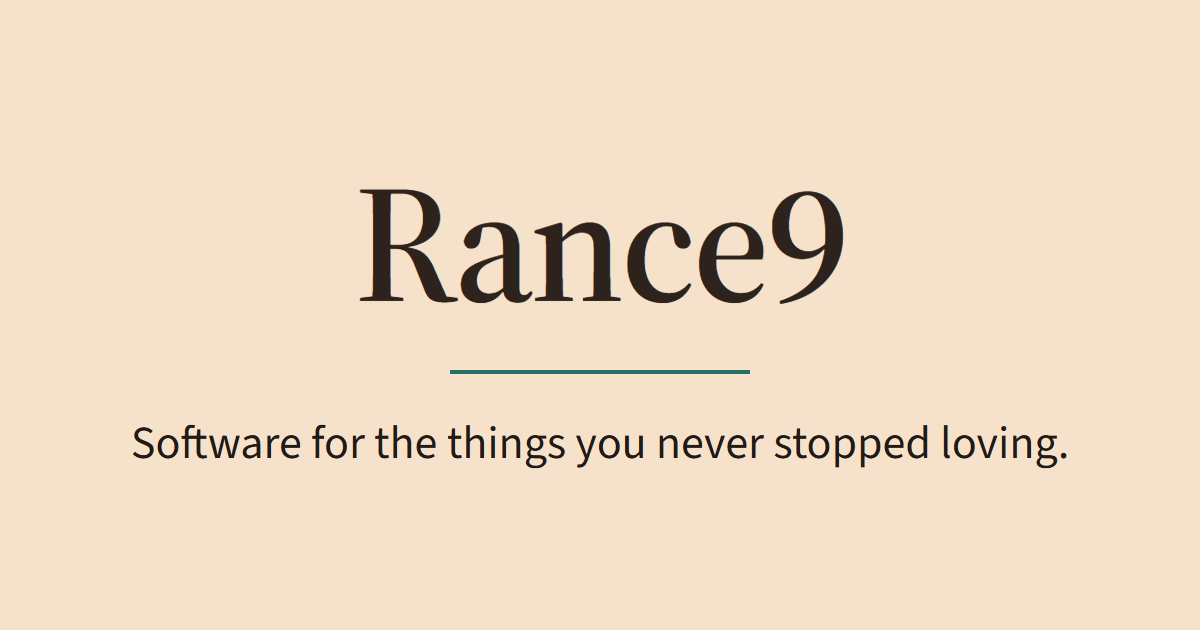
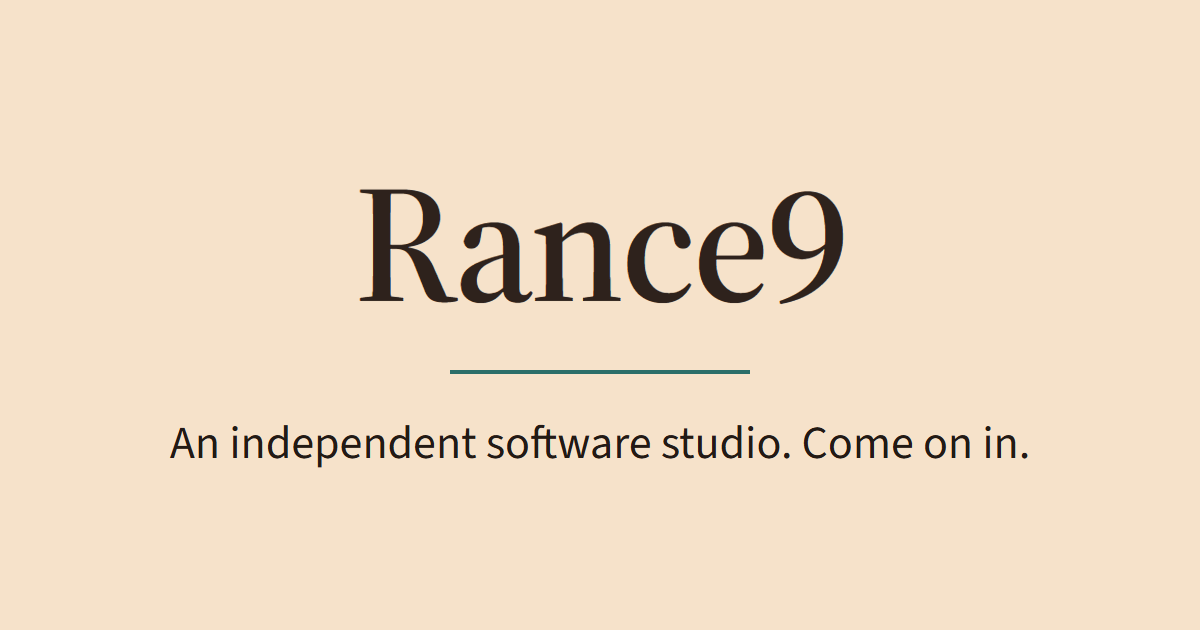
New welcome wording: Come on in.
- Headline "Come on in." with "Rance9 is my independent software studio.
  Make yourself at home." beneath it.
- New About text and picture caption ("Psst… try clicking around the
  room.").
- Search and social descriptions, image alt text and the social preview
  image updated to match.

Changed region(s): [[0.0925, 0.6635, 0.8942, 0.754]]

diff --git a/index.html b/index.html
@@ -5,25 +5,25 @@
   <meta name="viewport" content="width=device-width, initial-scale=1">
   <meta http-equiv="Content-Security-Policy" content="default-src 'none'; img-src 'self'; style-src 'self'; font-src 'self'; script-src 'self'; base-uri 'none'; form-action 'none'; object-src 'none'">
   <title>Rance9</title>
-  <meta name="description" content="Software for the things you never stopped loving.">
+  <meta name="description" content="Rance9 is my independent software studio. Make yourself at home.">
   <link rel="canonical" href="https://rance9.com/">
   <meta name="color-scheme" content="light">
   <meta name="theme-color" content="#F7E2CA">
   <meta property="og:type" content="website">
   <meta property="og:site_name" content="Rance9">
   <meta property="og:title" content="Rance9">
-  <meta property="og:description" content="Software for the things you never stopped loving.">
+  <meta property="og:description" content="Rance9 is my independent software studio. Make yourself at home.">
   <meta property="og:url" content="https://rance9.com/">
   <meta property="og:image" content="https://rance9.com/assets/images/social-preview.png">
   <meta property="og:image:type" content="image/png">
   <meta property="og:image:width" content="1200">
   <meta property="og:image:height" content="630">
-  <meta property="og:image:alt" content="The Rance9 name in a dark serif on cream paper, above a thin teal rule and the line: Software for the things you never stopped loving.">
+  <meta property="og:image:alt" content="The Rance9 name in a dark serif on cream paper, above a thin teal rule and the line: An independent software studio. Come on in.">
   <meta name="twitter:card" content="summary_large_image">
   <meta name="twitter:title" content="Rance9">
-  <meta name="twitter:description" content="Software for the things you never stopped loving.">
+  <meta name="twitter:description" content="Rance9 is my independent software studio. Make yourself at home.">
   <meta name="twitter:image" content="https://rance9.com/assets/images/social-preview.png">
-  <meta name="twitter:image:alt" content="The Rance9 name in a dark serif on cream paper, above a thin teal rule and the line: Software for the things you never stopped loving.">
+  <meta name="twitter:image:alt" content="The Rance9 name in a dark serif on cream paper, above a thin teal rule and the line: An independent software studio. Come on in.">
   <link rel="icon" href="assets/icons/favicon.ico" sizes="16x16 32x32 48x48">
   <link rel="icon" href="assets/icons/favicon.svg" type="image/svg+xml">
   <link rel="apple-touch-icon" href="assets/icons/apple-touch-icon.png">
@@ -51,8 +51,8 @@
   <main id="main" tabindex="-1">
     <div class="wrap">
       <section class="intro" aria-labelledby="headline">
-        <h1 id="headline">Software for the things you never stopped loving.</h1>
-        <p class="lede">Some things you outgrow. I build for the rest.</p>
+        <h1 id="headline">Come on in.</h1>
+        <p class="lede">Rance9 is my independent software studio. Make yourself at home.</p>
         <div class="hero">
           <picture>
             <source type="image/webp"
@@ -177,7 +177,7 @@
           </div>
           <p class="visually-hidden" aria-live="polite" data-tv-status></p>
         </div>
-        <p class="hero-caption"><svg class="hero-caption-icon" viewBox="0 0 7 7" width="10" height="10" aria-hidden="true" focusable="false" shape-rendering="crispEdges"><path fill="currentColor" d="M3 0h1v2h1v1h2v1H5v1H4v2H3V5H2V4H0V3h2V2h1z"/></svg>Remember this room? Go ahead, poke around.</p>
+        <p class="hero-caption"><svg class="hero-caption-icon" viewBox="0 0 7 7" width="10" height="10" aria-hidden="true" focusable="false" shape-rendering="crispEdges"><path fill="currentColor" d="M3 0h1v2h1v1h2v1H5v1H4v2H3V5H2V4H0V3h2V2h1z"/></svg>Psst… try clicking around the room.</p>
       </section>
 
       <section class="section" id="projects" aria-labelledby="projects-label">
@@ -217,7 +217,7 @@
 
       <section class="section" id="about" aria-labelledby="about-label">
         <h2 class="section-label" id="about-label">ABOUT</h2>
-        <p class="body-copy">I make software for the things people are fans of for life. Sometimes that means getting back something you thought was gone. Sometimes it means going deeper into something you already love. The goal is the same nostalgic feeling every time.</p>
+        <p class="body-copy">I build software I'd want to use myself, take the time to get it right, and share it here when it's ready. Have a look around, see what's on the way, and say hello any time.</p>
       </section>
 
       <section class="section" id="contact" aria-labelledby="contact-label">

diff --git a/privacy/index.html b/privacy/index.html
@@ -5,25 +5,25 @@
   <meta name="viewport" content="width=device-width, initial-scale=1">
   <meta http-equiv="Content-Security-Policy" content="default-src 'none'; img-src 'self'; style-src 'self'; font-src 'self'; script-src 'none'; base-uri 'none'; form-action 'none'; object-src 'none'">
   <title>Privacy — Rance9</title>
-  <meta name="description" content="Software for the things you never stopped loving.">
+  <meta name="description" content="Rance9 is my independent software studio. Make yourself at home.">
   <link rel="canonical" href="https://rance9.com/privacy/">
   <meta name="color-scheme" content="light">
   <meta name="theme-color" content="#F7E2CA">
   <meta property="og:type" content="website">
   <meta property="og:site_name" content="Rance9">
   <meta property="og:title" content="Rance9">
-  <meta property="og:description" content="Software for the things you never stopped loving.">
+  <meta property="og:description" content="Rance9 is my independent software studio. Make yourself at home.">
   <meta property="og:url" content="https://rance9.com/privacy/">
   <meta property="og:image" content="https://rance9.com/assets/images/social-preview.png">
   <meta property="og:image:type" content="image/png">
   <meta property="og:image:width" content="1200">
   <meta property="og:image:height" content="630">
-  <meta property="og:image:alt" content="The Rance9 name in a dark serif on cream paper, above a thin teal rule and the line: Software for the things you never stopped loving.">
+  <meta property="og:image:alt" content="The Rance9 name in a dark serif on cream paper, above a thin teal rule and the line: An independent software studio. Come on in.">
   <meta name="twitter:card" content="summary_large_image">
   <meta name="twitter:title" content="Rance9">
-  <meta name="twitter:description" content="Software for the things you never stopped loving.">
+  <meta name="twitter:description" content="Rance9 is my independent software studio. Make yourself at home.">
   <meta name="twitter:image" content="https://rance9.com/assets/images/social-preview.png">
-  <meta name="twitter:image:alt" content="The Rance9 name in a dark serif on cream paper, above a thin teal rule and the line: Software for the things you never stopped loving.">
+  <meta name="twitter:image:alt" content="The Rance9 name in a dark serif on cream paper, above a thin teal rule and the line: An independent software studio. Come on in.">
   <link rel="icon" href="../assets/icons/favicon.ico" sizes="16x16 32x32 48x48">
   <link rel="icon" href="../assets/icons/favicon.svg" type="image/svg+xml">
   <link rel="apple-touch-icon" href="../assets/icons/apple-touch-icon.png">
